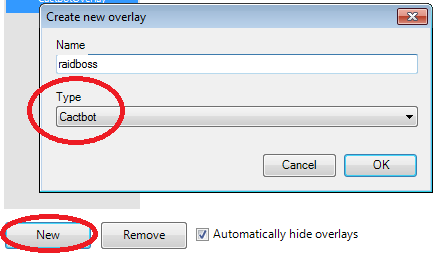
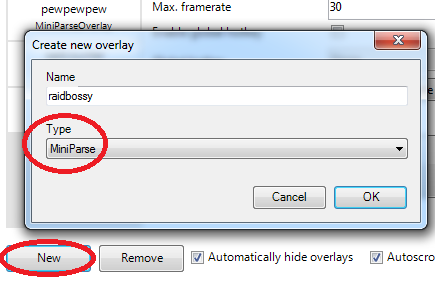
update install instructions for ngld overlayplugin

diff --git a/README.md b/README.md
@@ -12,7 +12,7 @@
 ## About
 
 cactbot is an ACT overlay that provides raiding tools for [Final Fantasy XIV](http://www.finalfantasyxiv.com/).  This project is an overlay plugin for
-[hibiyasleep's OverlayPlugin](https://github.com/hibiyasleep/OverlayPlugin)
+[ngld's OverlayPlugin](https://github.com/ngld/OverlayPlugin)
 which itself is a plugin for
 [Advanced Combat Tracker](http://advancedcombattracker.com/).
 
@@ -62,10 +62,9 @@ Download and add the most recent version of [ravahn's FFXIV ACT plugin](https://
 This is under Plugins -> FFXIV Settings -> Parse Options.
 
 You must have the latest x64 version of the
-[hibiyasleep OverlayPlugin](https://github.com/hibiyasleep/OverlayPlugin/releases/latest)
-installed and working in ACT.  You must use the [hibiyasleep](https://github.com/hibiyasleep) version of
-OverlayPlugin and not the original RainbowMage version, as cactbot depends
-on several features of that version.
+[ngld OverlayPlugin](https://github.com/ngld/OverlayPlugin/releases/latest)
+installed and working in ACT.  You must use the [ngld](https://github.com/ngld) version of
+OverlayPlugin and not the original RainbowMage version or the hibiyasleep fork.
 
 fflogs has [a good guide](https://www.fflogs.com/help/start/) to setting up ACT and OverlayPlugin if you prefer video or would like more instructions on how to set these two tools up properly.
 
@@ -73,40 +72,25 @@ fflogs has [a good guide](https://www.fflogs.com/help/start/) to setting up ACT 
 
 1. Find the [latest release](https://github.com/quisquous/cactbot/releases/latest) and download the cactbot-version-number.zip file for that release.  (You likely do *not* want either of the Source zip files.)
 1. Right click on the zip file, go to properties.  In the bottom right corner of the properties menu, click "Unblock", and then "OK" to close the menu.
-1. Unzip the release zip file.  (If there is no **OverlayPlugin\\addons\\CactbotOverlay.dll** file, you downloaded the wrong zip file.)
+1. Unzip the release zip file.  (If there is no **cactbot\\CactbotOverlay.dll** file, you downloaded the wrong zip file.)
 1. Close ACT, if it's still running.
-1. Copy the **OverlayPlugin\\** folder from inside of the unzipped folder into your existing **C:\\...\\Advanced Combat Tracker\\** folder.
-1. If you already have an existing **OverlayPlugin\\** folder, you will be prompted to confirm if you want to merge files with existing files.  Click the `Do this for the next N conflicts` checkbox and then the `Move and Replace` checkbox.  If you end up with an **OverlayPlugin\\OverlayPlugin\\** folder then you have done something wrong.
+1. Copy the **cactbot\\** folder from inside of the unzipped folder anywhere on disk.  Your user folder, aka **%UserProfile%** aka **C:\\Users\\Username** is a great place.  You can also put it in your **C:\\...\\Advanced Combat Tracker\\** folder as well, but will get security prompts whenever you change it.
 
-    The final directory structure should look something like this:
+1. If you already have an existing **cactbot\\** folder in the location you have copied it, you will be prompted to confirm if you want to merge files with existing files.  Click the `Do this for the next N conflicts` checkbox and then the `Move and Replace` checkbox.  If you end up with an **cactbot\\cactbot\\** folder then you have done something wrong.
 
-    ```code
-    - C:\...\Advanced Combat Tracker\
-      - Advanced Combat Tracker.exe
-      - FFXIV_ACT_Plugin.dll
-      - OverlayPlugin\
-         - OverlayPlugin.dll
-         - OverlayPlugin.Common.dll
-         - OverlayPlugin.Core.dll
-         - etc etc OverlayPlugin files
-         - addons\
-            - CactbotOverlay.dll
-         - cactbot\
-            - ui\
-            - resources\
-            - user\
-    ```
+![folder structure](screenshots/install_cactbot_folder.png)
 
-    Note: The cactbot\\ folder does not have to be located inside of the
-    OverlayPlugin directory, but that is where it comes by default as part
-    of a cactbot release zip file.  It can be located anywhere on disk as
-    long as the entire cactbot\\ folder is kept together.
+1. Add **cactbot\\CactbotOverlay.dll** as an ACT plugin.  In the ACT -> Plugins -> Plugin Listing tab, click the `Browse` button and find the **cactbot\\CactbotOverlay.dll** where you saved it on disk in the previous steps.  Then click `Add/Enable Plugin`.
 
-    Note: The OverlayPlugin\\ subdirectory can also be named whatever you like.
+![add plugin](screenshots/install_cactbot_add_plugin.png)
+
+1. Verify your plugins are in the correct order.  The order should be: FFXIV Plugin first, then OverlayPlugin, then cactbot.  It should look like the following:
+
+![plugin order](screenshots/install_cactbot_plugin_order.png)
 
 1. Restart ACT.
-1. Now add a new overlay in the OverlayPlugin tab in ACT, and choose `cactbot` as the type.
-1. In the URL field, browse to an html file to load.
+1. Now add a new overlay in the OverlayPlugin tab in ACT, and choose `MiniParse` as the type.
+1. In the URL field, browse to an html file to load.  You do *not* need to check `This is an overlay that requires ACTWebSocket`.
 
     [ui/test/test.html](ui/test/test.html) is a good place to start to make sure everything is set up properly.
 
@@ -116,23 +100,17 @@ For more instructions about adding and configuring cactbot overlays, see the [Ad
 
 If you get an error that it can't find **FFXIV_ACT_Plugin.dll**, make sure the **FFXIV_ACT_Plugin.dll** is in the same directory as **Advanced Combat Tracker.exe**.
 
-If you get an error in the OverlayPlugin console similar to `Exception in SendFastRateEvents: Method not found: 'Void RainbowMage.HtmlRenderer.Renderer.ExecuteScript(System.String)'.` then you are still using the RainbowMage version of OverlayPlugin and need to upgrade to the latest x64 full version of the [hibiyasleep OverlayPlugin](https://github.com/hibiyasleep/OverlayPlugin/releases/latest) instead.
+If you get an error in the OverlayPlugin console similar to `Exception in SendFastRateEvents: Method not found: 'Void RainbowMage.HtmlRenderer.Renderer.ExecuteScript(System.String)'.` then you are still using the RainbowMage version of OverlayPlugin.  You need to upgrade to the latest x64 full version of the [ngld OverlayPlugin](https://github.com/ngld/OverlayPlugin/releases/latest) instead.
 
-If you get an error on the OverlayPlugin console similar to `Uncaught TypeError: window.OverlayPluginApi.overlayMessage is not a function`, then you are using an earlier version of the OverlayPlugin.  You need to be using the latest x64 full version of the [hibiyasleep OverlayPlugin](https://github.com/hibiyasleep/OverlayPlugin/releases/latest).
-
-If you get an error in the OverlayPlugin console similar to `Error: (overlay): C:\Program Files (x86)\Advanced Combat Tracker\OverlayPlugin\addons\CactbotOverlay.dll: System.IO.FileNotFoundException: Could not load file or assembly 'Newtonsoft.Json, Version=10.0.0.0, Culture=neutral, PublicKeyToken=30ad4fe6b2a6aeed' or one of its dependencies. The system cannot find the file specified.` then you have likely installed the wrong version of the OverlayPlugin.  Please reinstall the latest x64 full version of the [hibiyasleep OverlayPlugin](https://github.com/hibiyasleep/OverlayPlugin/releases/latest).
+If you get an error on the OverlayPlugin console similar to `Uncaught TypeError: window.OverlayPluginApi.overlayMessage is not a function`, then you are using an earlier version of the hibiyasleep OverlayPlugin.  You need to upgrade to the latest x64 full version of the [ngld OverlayPlugin](https://github.com/ngld/OverlayPlugin/releases/latest) instead.
 
 If you get an error in the OverlayPlugin console similar to `System.MissingMethodException: Method not found: '!!0[] System.Array.Empty()` then you have installed the wrong .NET framework version.  Please install the [.NET Framework](https://www.microsoft.com/net/download/framework) version 4.6.1 or above.
 
-If you get a [CAS policy](https://blogs.msdn.microsoft.com/drew/2009/12/23/xunit-and-td-net-fixing-the-attempt-was-made-to-load-an-assembly-from-a-network-location-problem/) error on starting the OverlayPlugin, such as `An attempt was made to load an assembly from a network location which would have caused the assembly to be sandboxed in previous version of the .NET Framework.` then this means that you have forgotten to unblock some/all of your DLLs (either hibiyasleep or cactbot).  First, stop ACT.  Then, unblock everything; the easiest way is to unblock the original zip file and re-extract rather than unblocking every file individually.  Finally, restart ACT again.
+If you get a [CAS policy](https://blogs.msdn.microsoft.com/drew/2009/12/23/xunit-and-td-net-fixing-the-attempt-was-made-to-load-an-assembly-from-a-network-location-problem/) error on starting the OverlayPlugin, such as `An attempt was made to load an assembly from a network location which would have caused the assembly to be sandboxed in previous version of the .NET Framework.` then this means that you have forgotten to unblock some/all of your DLLs (either OverlayPlugin or cactbot).  First, stop ACT.  Then, unblock everything; the easiest way is to unblock the original zip file and re-extract rather than unblocking every file individually.  Finally, restart ACT again.
 
 If you get an overlay plugin error similar to `Error: (overlay): Exception in SendFastRateEvents: Could not load file or assembly 'FFXIV_ACT_Plugin, Version=(version), Culture=neutral, PublicKeyToken=null' or one of its dependencies. The system cannot find the file specified.` then you likely need to unblock the ffxiv plugin.  See the instructions above for unblocking DLLs.
 
-If you get an ACT dialog that says `Invalid Plugin` and `This assembly does not have a class that implements ACT's plugin interface`, then you are loading the plugin incorrectly.  Cactbot is an overlay and not a direct ACT plugin.  Plugins like **FFXIV_ACT_PLUGIN.dll** and **OverlayPlugin.dll** are ACT plugins and are loaded via ACT -> Plugins -> Plugin Listing -> Add/Enable Plugin.  Cactbot is an overlay plugin.  You load it via going to Plugins -> OverlayPlugin.dll -> New.  See the [adding overlay modules](#adding-overlay-modules) section for more details.
-
 If triggers or pieces of the UI do not work, ensure that "Disable Parsing from Network Data" is **not** checked in the FFXIV plugin settings. Network data is required for accurate trigger timing.
-
-If you are using cactbot for dps parsing and you don't get any data, make sure that the DPS update rate is set to a number higher than zero in your plugin config.  Setting it to 3 is a good default.
 
 ## Building from source
 
@@ -143,7 +121,7 @@ Follow all the steps above for installing cactbot first.
 1. Open the solution in Visual Studio (tested with Visual Studio 2017).
 1. Build for "Release" and "x64".
 1. The plugin will be built as **bin/x64/Release/CactbotOverlay.dll**.
-1. Copy the plugin to the Advanced Combat Tracker\\OverlayPlugin\\addons\\ directory
+1. Add the built plugin directly as an ACT plugin.  In the ACT -> Plugins -> Plugin Listing tab, click the `Browse` button and find the **bin/x64/Release/CactbotOverlay.dll** where this file was built.  Then click `Add/Enable Plugin`.
 
 ## UI module overview
 
@@ -285,7 +263,7 @@ To add a cactbot module is the same as adding any overlay plugin.
 
     ![overlay plugin tab screenshot](screenshots/OverlayPluginTab.png)
 
-1. Click the "New" button and then select Cactbot in the "Type" dropdown.
+1. Click the "New" button and then select `MiniParse in the "Type" dropdown.
 
     ![new overlay plugin screenshot](screenshots/OverlayPluginNew.png)
 
